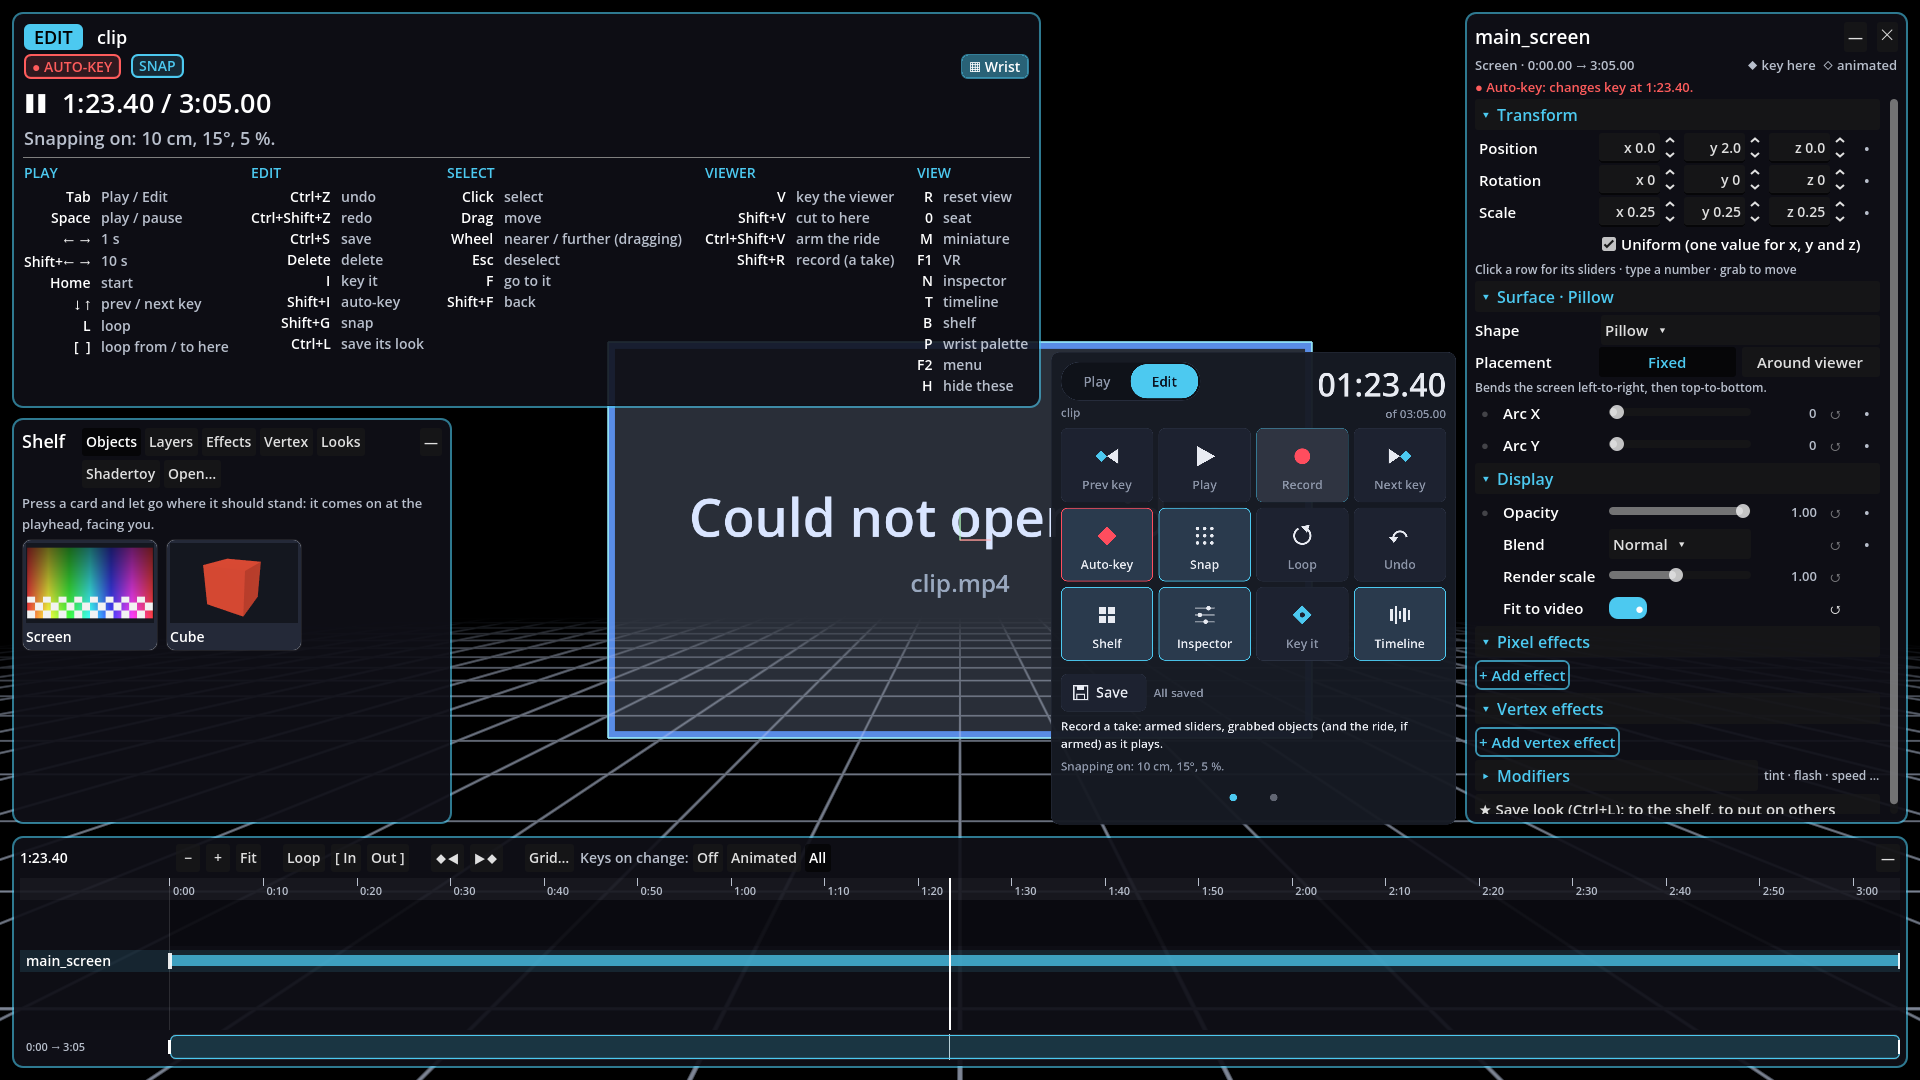
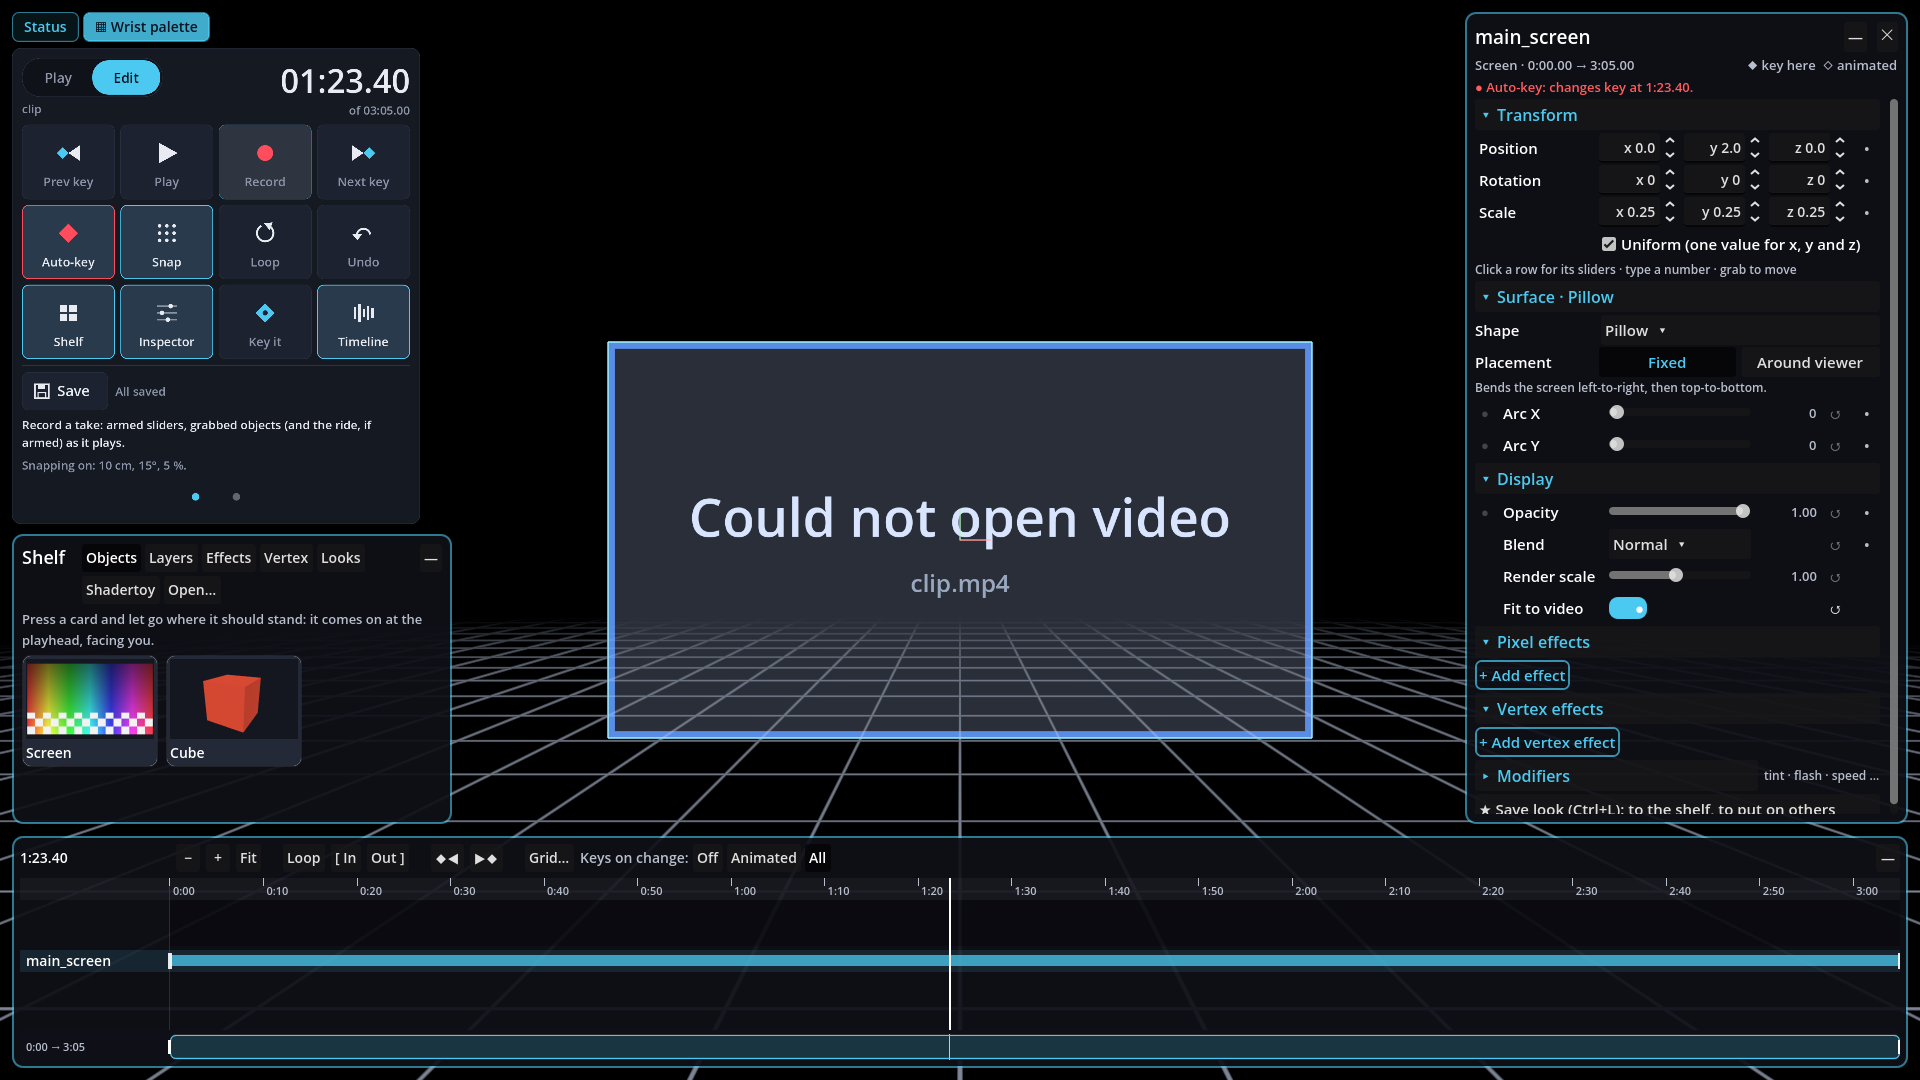
Studio: the desktop wrist palette in the top left corner (TODO 68)
The corner shows the status or the wrist palette, one at a time,
switched by Status / Wrist palette tabs over it or P. The palette is as
wide as the shelf, which moves under it. It no longer covers the middle
of the view, where right-drag look couldn't start over it.

Changed region(s): [[0.0, 0.0, 0.625, 0.7333], [0.5312, 0.3056, 0.7812, 0.7639], [0.5, 0.0306, 0.5312, 0.0917]]

diff --git a/VR Studio — Plan.md b/VR Studio — Plan.md
@@ -277,7 +277,7 @@ The inspector (`studio/ui/inspector.gd`) is rewritten to the mockup; 313/313 tes
 
 ### 3. Wrist palette and panels (`docs/studio/todo/3_wrist.png`)
 - **(done)** **Wrist palette to the mockup** (2026-09-29, TODO 8): `StudioWristPalette` rebuilt on the player's tile style ("Better wrist menu", `b93d9a5`): `StudioWristTile` (`studio/ui/wrist_tile.gd`) is `WristTile` with Studio's drawn icons and 27 px captions. A Play / Edit switch (the other half switches) and the piece's name; the timecode (`01:23.40`, 72 px) with "of <duration> · bar <bar>.<beat>" (from the beat clock's grid, 1-based; left out before the downbeat or without a grid) and the FPS. Two pages of 4 × 3 tiles (`PAGES`): page 1 *Prev key*, *Play* (*Pause* while playing), *Record* (*Stop*), *Next key* / *Auto-key*, *Snap*, *Loop*, *Undo* / *Shelf*, *Inspector*, *Key it*, *Timeline*; page 2 *Redo*, *Seat*, *Go to it*, *Back* / *Loop in*, *Loop out*, *Key viewer*, *Cut here* / *Arm ride*, *Miniature*, *Delete*, *Menu* (new on the wrist). *Key it* is where the mockup has *Outliner* (it isn't built: TODO 15); the mockup had no place for it and A keys too. Toggles lit (auto-key, a take and an armed ride red). Turning the page: a sideways swipe of 120 px across the palette, or the dots under it (90 × 76 px targets); a let-go that moved more than 40 px isn't a tile press. Footer: *Save*, "All saved" or "● unsaved · autosaved 12 s ago" (`Studio._autosaved_at`), then a line saying what the active mode does (a take, an armed ride, auto-key, keys on change, snapping) or, while the pointer is on a tile, what the tile does; then the last message. The panel is 0.3 × 0.35 m, 900 × 1050 px (3000 px/m as before). Studio hands it a dictionary (`Studio._wrist_state`) instead of the compact status's arguments; the compact `StudioStatus` isn't used on the wrist any more. Check: `checks/shot_studio_wrist.gd` (tiles, lit toggles, hover help, swipes both ways, a swipe from *Undo* not undoing, a dot, a real press, the switch); `drive_studio_m8.gd`'s legibility: wrist text 1.24°–3.44°, smallest target 2.5 cm (the switch halves). Render: `docs/studio/wrist_palette.png`. **Not verified (no headset):** pointing and swiping with the laser, the hover line with XR Tools' pointer, the panel's size on a real wrist.
-- **(done)** **The wrist palette on the desktop** (2026-09-29, TODO 68): P (`studio_toggle_wrist`, Edit) or the status's *▦ Wrist* button (lit while it's open; the status's chip row now always shows on the desktop, which also fixes folded panels' tabs hiding when no chip was on) shows a second `StudioWristPalette` (`Studio.wrist_2d`) on the desktop UI layer, the same palette clicked with the mouse. Scaled (`_place_wrist_2d`): left of the inspector's place (the right edge while the inspector is folded, so it doesn't jump with the selection), above the timeline, under the status or beside it, whichever is bigger, at most ×0.6 (×0.45 beside the full shortcut table at 1920 × 1080, ×0.6 with it hidden), and over the status's corner if that would be under ×0.4. Hidden in Play and in the headset, like the wrist. The palette's swipe now takes positions in its own pixels and only presses that start on it, so a drag over the 3D view doesn't turn its page. Check: `checks/shot_studio_wrist_desktop.gd` (run it rendered: P, the button, clicks on tiles through the window's input, the hover line, a click on it not deselecting, swipes on it and not beside it, Undo, the Play half, the placements). A rendered check here now and then lost a click to the real cursor moving (a stray motion takes the press off the button): the check warps the cursor with its events. Render: `docs/studio/wrist_desktop.png`.
+- **(done)** **The wrist palette on the desktop** (2026-09-29, TODO 68): the desktop's top left corner shows the status or a second `StudioWristPalette` (`Studio.wrist_2d`), one at a time: *Status* / *▦ Wrist palette* tabs over it (`corner_tabs`, the open one filled) or P (`studio_toggle_wrist`, Edit) switch. Hidden in Play and in the headset, like the wrist. The palette is as wide as the shelf (×0.49), smaller when the window is too short to leave the shelf 300 px under it (`_place_wrist_2d`); the shelf starts under whichever is showing (`_fit_shelf`). With the palette showing, the folded panels' tabs are its panel tiles, as in the headset. First placed left of the inspector (48e53a7); the user wanted it top left instead, and said it "took over right click": a right-press on a panel doesn't start the desktop look (the panel takes it), and there it covered much of the view. The palette's swipe takes positions in its own pixels and only presses that start on it, so a drag over the 3D view doesn't turn its page. The status's chip row now also shows when only a folded panel's tab is in it (it used to hide them when no chip was on). Check: `checks/shot_studio_wrist_desktop.gd` (run it rendered: P, the tabs, clicks on tiles through the window's input, the hover line, a click on it not deselecting, swipes on it and not beside it, right-drag look with the cursor over it, Undo, the Play half, the shelf moving, a short window). A rendered check here now and then lost a click to the real cursor moving (a stray motion takes the press off the button): the check warps the cursor with its events. Render: `docs/studio/wrist_desktop.png`.
 - **(done)** **Explain arming the ride.** The user didn't get how *● Ride* (`studio_arm_ride`, Ctrl+Shift+V) works: say it where it's armed ("Ride armed: the next take also records where you fly, as the viewer's path"), or rethink it.
 - **(done)** **Minimize** (—) on every panel (inspector, shelf, timeline; the outliner doesn't exist yet): folds it to a tab. In the headset the tabs are the wrist palette's panel buttons (outlined while open), on the desktop a tab per folded panel at the right of the status's chip row (`StudioStatus.TABS`, `show_tabs`, `tab_pressed`); the tab or N / T / B brings it back, re-placed in front of you. — sits next to the inspector's ✕ (which still deselects), replaces the shelf's ✕ (it only ever hid it), and ends the timeline's bar. `Studio._fold`, `folded_panels`. A wider dash than the mockup's –: at 14 px the en dash was a speck, and the timeline's zoom − sits on the same bar. Check: `checks/shot_studio_panels.gd` (desktop –, the tabs, the headset panels' –). Renders: `docs/studio/panels.png`. Not seen in the headset: pressing — with the laser.
 - **Move panels in VR, carried with you:** grab a panel's title bar to move it; panels keep their place relative to you as you fly, rather than staying in the world. (Check what grabbing a panel does today first.)

diff --git a/README.md b/README.md
@@ -72,7 +72,7 @@ Studio opens a script and lets you change it from inside the headset, on the pla
 
 - **Start it** from its own build (the *Studio* download from CI, or `build_and_run.bat studio [video.json]`) with the piece: `ShaderPlayerVR-Studio.exe -- --piece path\to\video.json`. From the Godot editor, run `res://studio/studio.tscn` with the same arguments. A video works too: its same-name `.json`, or, if it has none, a **new, empty piece** made next to it (`clip.mp4` → `clip.json`). With no piece, Studio opens with the shelf's *Open…* tab to pick one; a piece or video dropped on the window opens as well. `--start <seconds>` opens at that time, `--vr` / `--desktop` as in the player, `--library <folder>` adds a folder of your own assets to the shelf (repeat it for more), and `--shadertoy <folder>` uses another Shadertoy collection.
 - **Play and Edit:** Play is the audience view with nothing added. Edit shows the piece's name, the time, whether there are unsaved changes and what just happened, on the left wrist in the headset and in the corner of the desktop window. Switching keeps the playhead.
-- **Wrist palette** (Edit, in the headset; point the laser at it): a Play / Edit switch and the piece's name over the time, its length and the bar and beat. Below, two pages of big tiles; swipe across the palette (or press a dot under it) for the other page. Page 1 is what you use all the time: *Prev key*, *Play*, *Record*, *Next key*, *Auto-key*, *Snap*, *Loop*, *Undo*, *Shelf*, *Inspector*, *Key it*, *Timeline*. Page 2 has the rest: *Redo*, *Seat*, *Go to it*, *Back*, *Loop in*, *Loop out*, *Key viewer*, *Cut here*, *Arm ride*, *Miniature*, *Delete*, *Menu*. Switches that are on are lit (auto-key, recording and an armed ride in red). At the foot: *Save*, whether there are unsaved changes and how long ago they were autosaved, a line saying what the active mode does (or, while you point at a tile, what that tile does), and what just happened. On the desktop, **P** (or the status's *▦ Wrist* button) shows the same palette in the window, left of the inspector, to click with the mouse (drag across it to turn the page); P again hides it.
+- **Wrist palette** (Edit, in the headset; point the laser at it): a Play / Edit switch and the piece's name over the time, its length and the bar and beat. Below, two pages of big tiles; swipe across the palette (or press a dot under it) for the other page. Page 1 is what you use all the time: *Prev key*, *Play*, *Record*, *Next key*, *Auto-key*, *Snap*, *Loop*, *Undo*, *Shelf*, *Inspector*, *Key it*, *Timeline*. Page 2 has the rest: *Redo*, *Seat*, *Go to it*, *Back*, *Loop in*, *Loop out*, *Key viewer*, *Cut here*, *Arm ride*, *Miniature*, *Delete*, *Menu*. Switches that are on are lit (auto-key, recording and an armed ride in red). At the foot: *Save*, whether there are unsaved changes and how long ago they were autosaved, a line saying what the active mode does (or, while you point at a tile, what that tile does), and what just happened. On the desktop the top left corner shows either the status or the same palette, to click with the mouse (drag across it to turn the page): switch with the *Status* / *▦ Wrist palette* tabs over it, or **P**.
 - **Controls** (defaults; Studio's own, separate from the player's):
 
   | | Headset | Keyboard |
@@ -104,7 +104,7 @@ Studio opens a script and lets you change it from inside the headset, on the pla
   | Show / fold the timeline | wrist, or — on it | T |
   | Show / fold the asset shelf | wrist, or — on it | B |
   | Show / hide the keyboard shortcuts (the table under the desktop status) | | H |
-  | Show / hide the wrist palette in the desktop window | (always on the wrist) | P, or *▦ Wrist* in the status |
+  | Status or wrist palette in the desktop window's corner | (always on the wrist) | P, or the tabs over it |
   | Record / stop | wrist *Record* | Shift+R |
   | Drop the take being recorded | | Esc |
   | Key the viewer here (the ride glides here) | wrist *Key viewer* | V |
